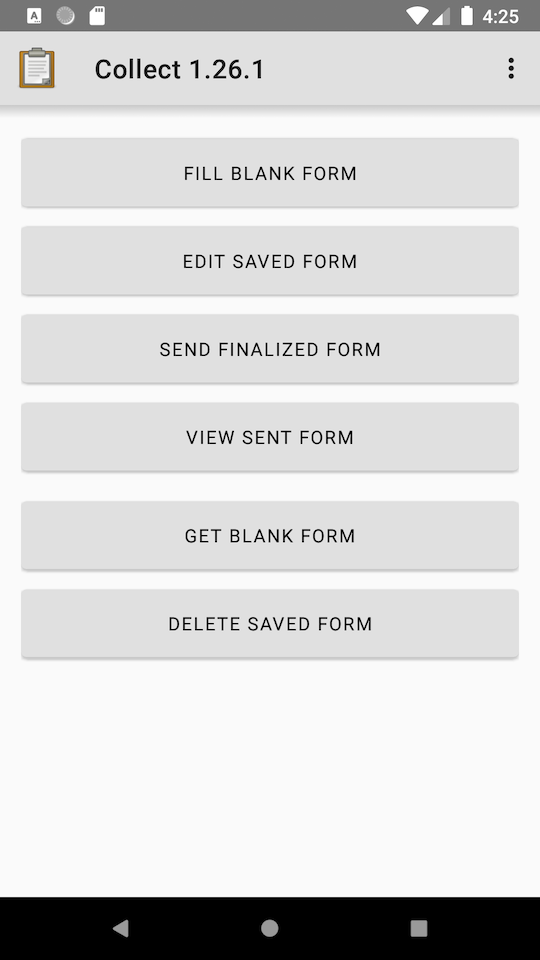
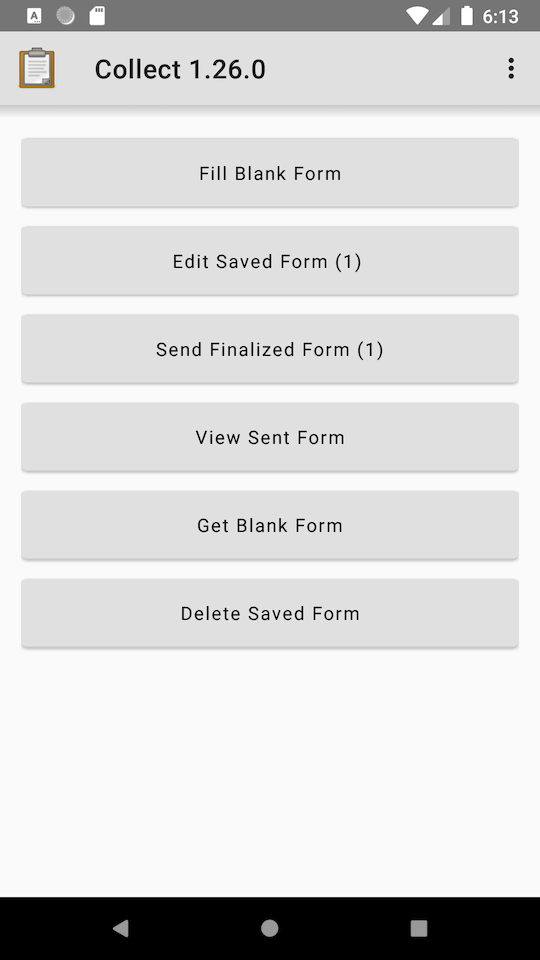
Update new main menu mockup

diff --git a/prototypes/revised-main-menu/README.md b/prototypes/revised-main-menu/README.md
@@ -6,4 +6,6 @@ This is motivated by the addition of Material Banners (for some features) to the
 
 The buttons on the Main Menu have also been changed to [Material Buttons](https://material.io/components/buttons/) and the primary color for the app has been changed to a grey (#E0E0E0) so the buttons don't end up being the same color as the background. This is also reflected on the Toolbar. The buttons have extra top/bottom padding to ~~keep them chunky~~ make sure they occupy roughly the same amount of space as the old ones.
 
+The Material Buttons aren't use the "all caps" style as suggested in the spec. This was based on data around all caps being less accessible.
+
 We'd eventually want to change the primary color to be something nicer but this lets us take the visual changes one step at a time.
